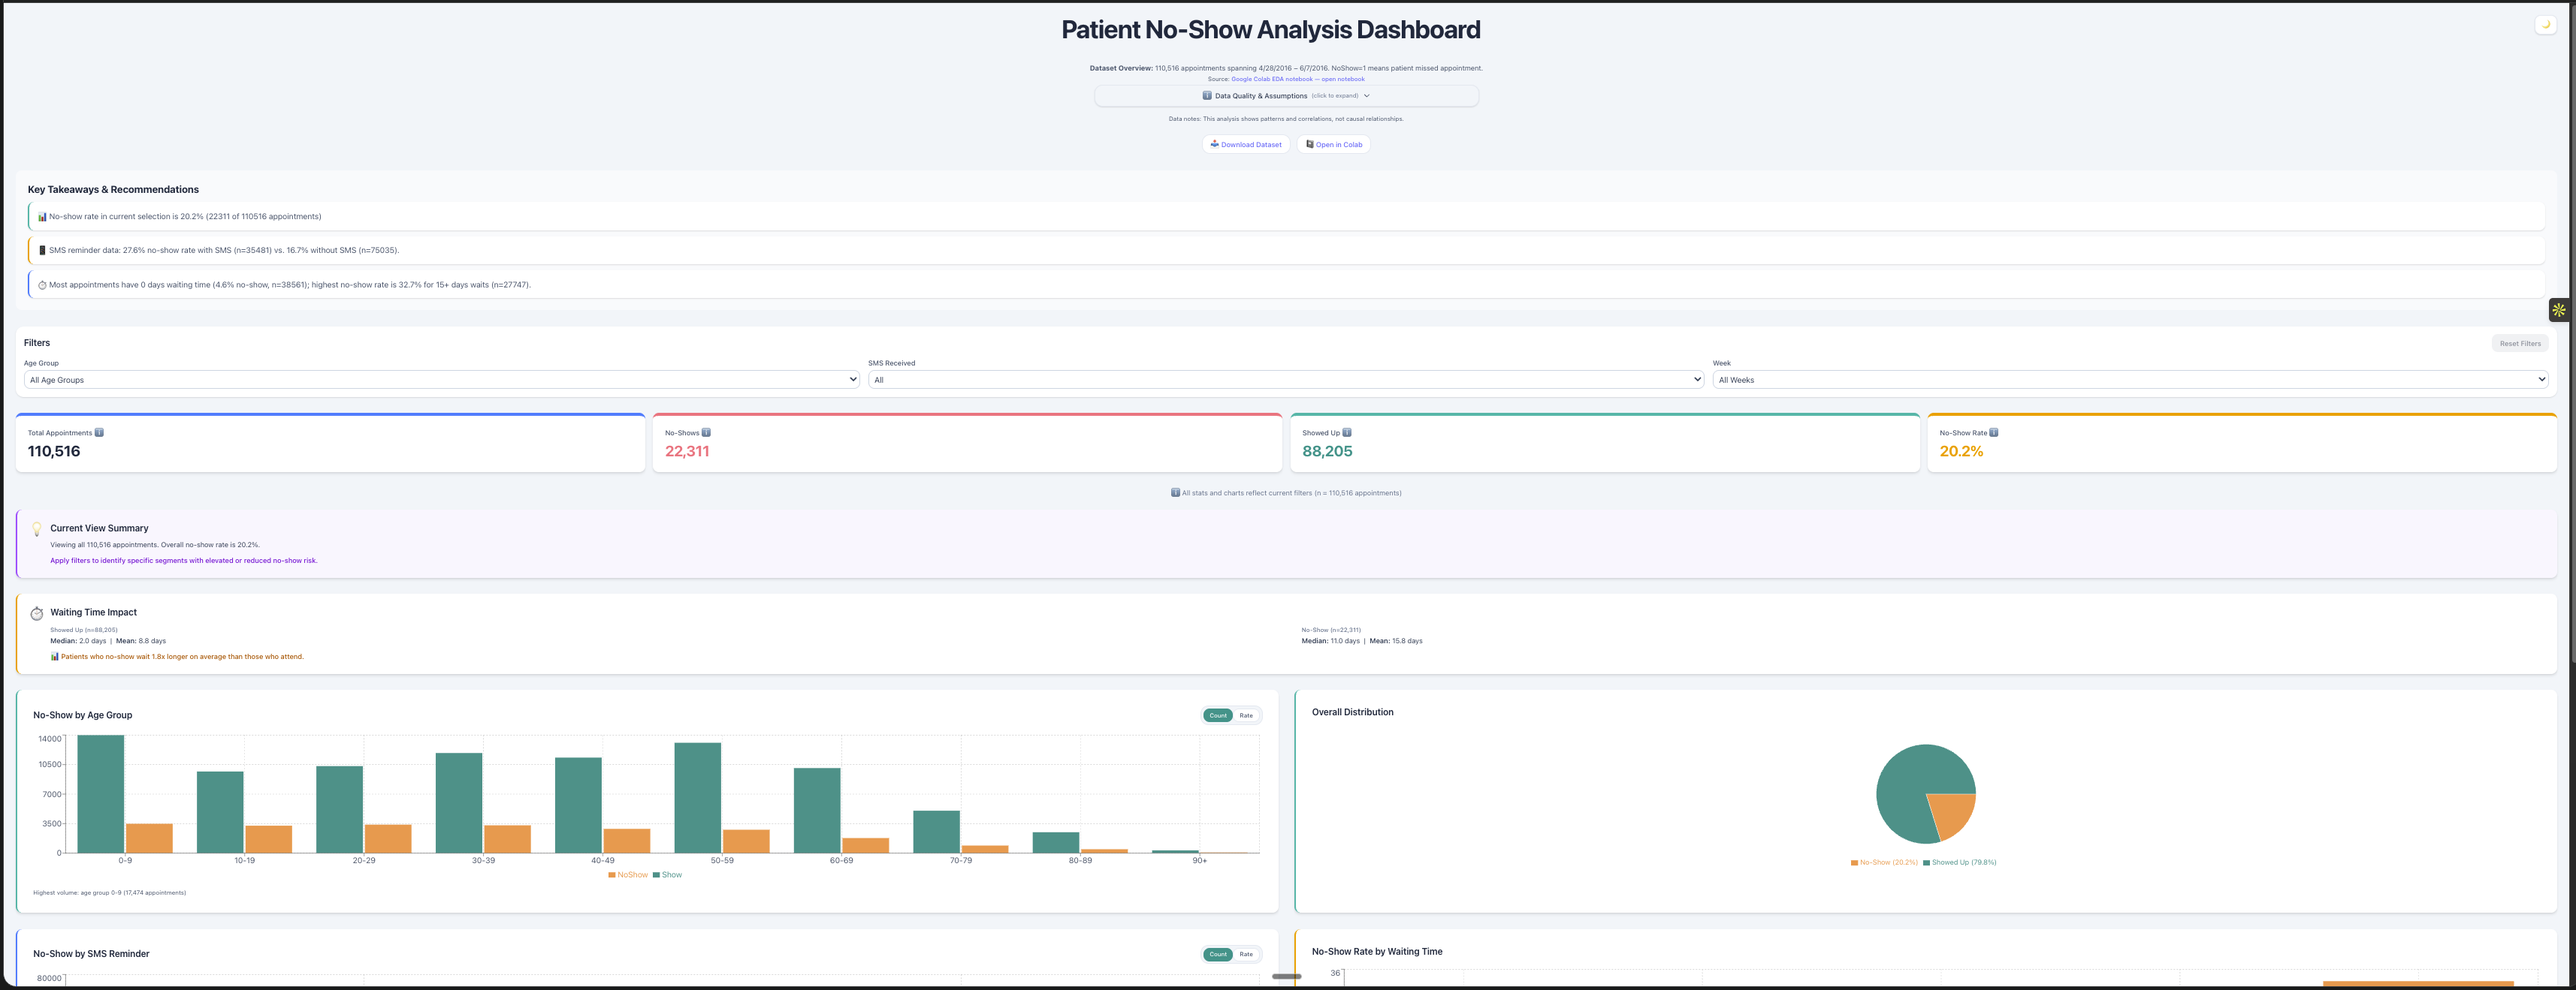
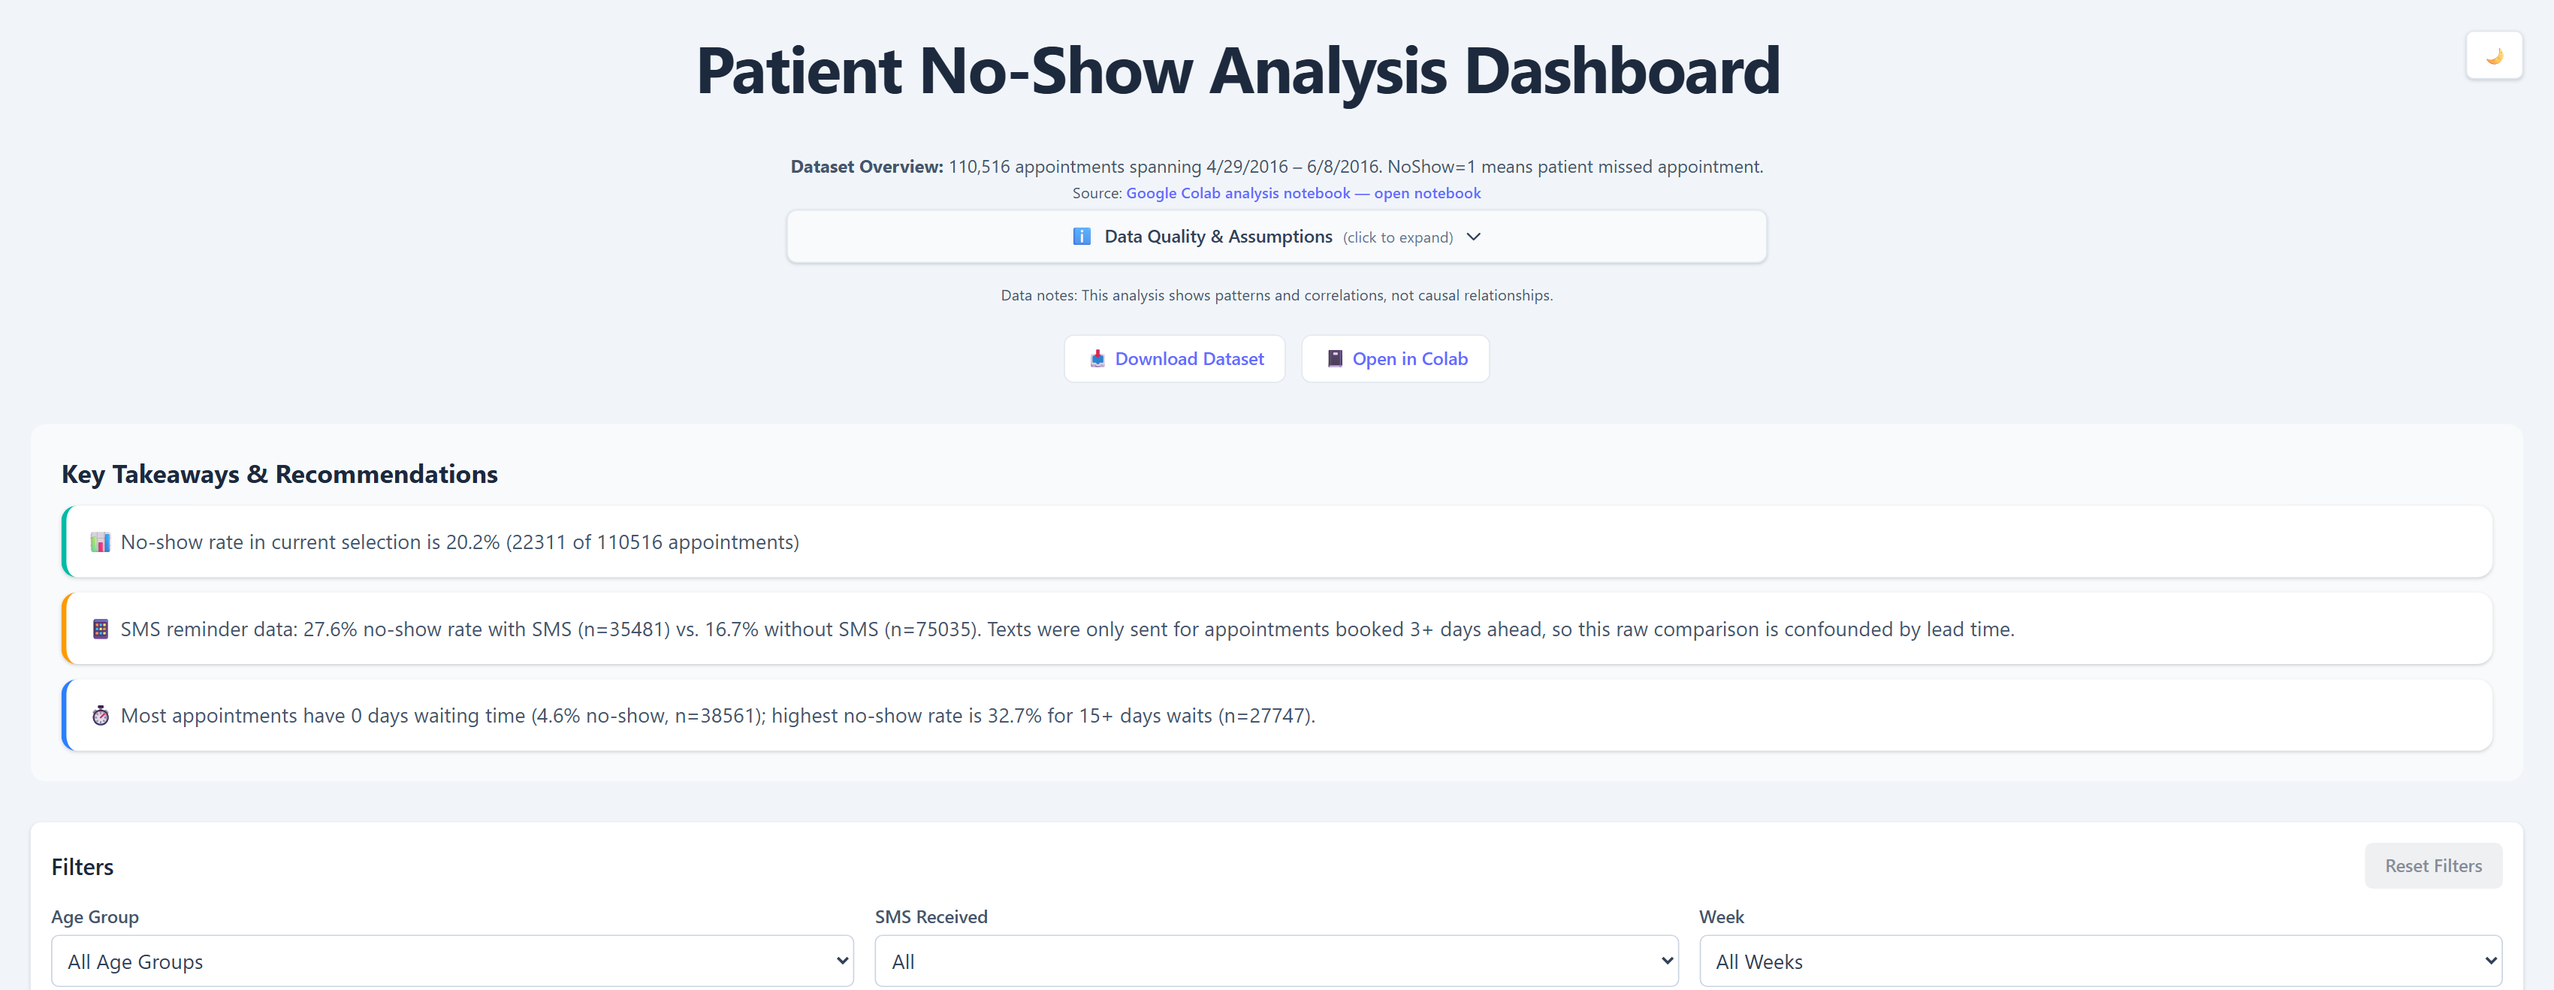
Correct dashboard SMS note, Colab link and date range
- Replace the "Counter-Intuitive Finding" SMS note: texts were only
  sent for appointments booked 3+ days ahead; among those, SMS
  recipients missed less often (27.6% vs 32.7%). Association only.
- Add the 3+ day chi-square (182) to the statistical summary and say
  the test statistics come from the 110,521-row notebook.
- Add a Cleaning note explaining 110,527 -> 110,516 rows (5
  appointments dated before booking, 1 negative age, 5 with Age 115).
- Reword the wait ratio as lead time ("booked 1.8x as far ahead").
- Point "Open in Colab" at the corrected notebook in this repo.
- Format the date range in UTC (it showed 4/28-6/7 instead of
  4/29-6/8/2016 in US time zones).
- Retake the 4 README screenshots whose text changed.

Claude-Session: https://claude.ai/code/session_01B99Ly2a23xmyd3xibfrB1g

diff --git a/patient-dashboard/src/PatientNoShowDashboard.jsx b/patient-dashboard/src/PatientNoShowDashboard.jsx
@@ -5,7 +5,9 @@ import {
   XAxis, YAxis, CartesianGrid, Tooltip, Legend, ResponsiveContainer
 } from 'recharts';
 
-const COLAB_URL = 'https://colab.research.google.com/drive/1zJEDIAIp1cpNJCIxTw7wu5hTN5WrfkP7?usp=sharing';
+// Opens the corrected notebook straight from this repo, so the link always matches main.
+const COLAB_URL =
+  'https://colab.research.google.com/github/ivan-711/Externship-TruBridge/blob/main/docs/notebook/TruBridge_NoShow_Analysis_FINAL.ipynb';
 
 const PatientNoShowDashboard = () => {
   const [csvData, setCsvData] = useState(null);
@@ -303,7 +305,9 @@ const PatientNoShowDashboard = () => {
 
     const minDate = new Date(Math.min(...dates));
     const maxDate = new Date(Math.max(...dates));
-    const dateRange = `${minDate.toLocaleDateString()} – ${maxDate.toLocaleDateString()}`;
+    // Appointment dates are stored as UTC midnight; format in UTC so US time zones don't shift them back a day.
+    const fmt = (d) => d.toLocaleDateString(undefined, { timeZone: 'UTC' });
+    const dateRange = `${fmt(minDate)} – ${fmt(maxDate)}`;
 
     // Calculate date range in days
     const daysDiff = Math.ceil((maxDate - minDate) / (1000 * 60 * 60 * 24));
@@ -496,7 +500,8 @@ const PatientNoShowDashboard = () => {
     } else {
       smsComparison =
         `SMS reminder data: ${smsNoShowRate}% no-show rate with SMS (n=${withSMS.length}) vs. ` +
-        `${noSmsNoShowRate}% without SMS (n=${withoutSMS.length}).`;
+        `${noSmsNoShowRate}% without SMS (n=${withoutSMS.length}). ` +
+        'Texts were only sent for appointments booked 3+ days ahead, so this raw comparison is confounded by lead time.';
     }
 
     const waitingBins = {
@@ -947,7 +952,7 @@ const PatientNoShowDashboard = () => {
                 rel="noreferrer"
                 className={`underline ${isDarkMode ? 'text-slate-300 hover:text-slate-200' : 'text-slate-600 hover:text-slate-800'}`}
               >
-                Google Colab EDA notebook — open notebook
+                Google Colab analysis notebook — open notebook
               </a>
             </span>
           </div>
@@ -1022,6 +1027,17 @@ const PatientNoShowDashboard = () => {
                     </p>
                     <p className={isDarkMode ? 'text-slate-300' : 'text-slate-600'}>
                       NoShow=1 indicates patient did not attend scheduled appointment
+                    </p>
+                  </div>
+
+                  <div className="md:col-span-2">
+                    <p className={`font-semibold mb-1.5 ${isDarkMode ? 'text-slate-200' : 'text-slate-800'}`}>
+                      🧹 Cleaning
+                    </p>
+                    <p className={isDarkMode ? 'text-slate-300' : 'text-slate-600'}>
+                      Waiting days = calendar days from booking to appointment (same-day = 0). Of 110,527 raw records,
+                      removed 5 appointments dated before their booking, 1 negative age and 5 records with Age 115
+                      (110,516 kept). Patient and appointment ID columns were removed before publishing.
                     </p>
                   </div>
                 </div>
@@ -1324,7 +1340,7 @@ const PatientNoShowDashboard = () => {
                 </div>
 
                 <p className={`text-sm font-medium ${isDarkMode ? 'text-amber-300' : 'text-amber-700'}`}>
-                  📊 Patients who no-show wait {waitingTimeComparison.ratio}x longer on average than those who attend.
+                  📊 Missed appointments had been booked {waitingTimeComparison.ratio}x as far ahead, on average, as kept ones.
                 </p>
               </div>
             </div>
@@ -1543,10 +1559,10 @@ const PatientNoShowDashboard = () => {
 
             <div className={`${isDarkMode ? 'bg-yellow-900/20 border-yellow-500' : 'bg-yellow-50 border-yellow-500'} border-l-4 p-3 mt-3 rounded`}>
               <p className={`font-semibold ${isDarkMode ? 'text-yellow-400' : 'text-yellow-700'}`}>
-                ⚠ Counter-Intuitive Finding
+                ⚠ Read With Lead Time in Mind
               </p>
               <p className={`text-sm mt-1 ${isDarkMode ? 'text-yellow-300' : 'text-yellow-800'}`}>
-                SMS recipients have HIGHER no-show rates (27.6%) than non-recipients (16.7%). This likely indicates SMS reminders are sent to high-risk patients, not that SMS causes no-shows.
+                Overall, SMS recipients missed more often (27.6%) than non-recipients (16.7%). But texts were only sent for appointments booked 3+ days ahead, and same-day appointments are rarely missed. Among appointments booked 3+ days ahead, SMS recipients missed less often (27.6% vs 32.7%). This is an association, not proof that texts reduce no-shows.
               </p>
             </div>
           </div>
@@ -1701,14 +1717,15 @@ const PatientNoShowDashboard = () => {
                 </p>
                 <ul className="text-sm ml-4 mt-1">
                   <li>T-test (Waiting Days by NoShow): p &lt; 0.001 ✓</li>
-                  <li>Chi-square (SMS vs NoShow): χ² = 1768, p &lt; 0.001 ✓</li>
+                  <li>Chi-square (SMS vs NoShow, all appointments): χ² = 1768, p &lt; 0.001 ✓</li>
+                  <li>Chi-square (SMS vs NoShow, booked 3+ days ahead): χ² = 182, p &lt; 0.001 ✓</li>
                 </ul>
               </div>
               <p className={`text-sm italic mt-2 ${isDarkMode ? 'text-slate-400' : 'text-slate-600'}`}>
-                Waiting time is the strongest predictor. SMS correlation is confounded - reminders appear to be sent to higher-risk appointments.
+                Waiting time is the strongest predictor. The overall SMS correlation is confounded: texts were only sent for appointments booked 3+ days ahead, and among those, SMS recipients missed less often (27.6% vs 32.7%).
               </p>
               <p className={`text-xs mt-3 ${isDarkMode ? 'text-slate-400' : 'text-slate-500'}`}>
-                Source: Google Colab EDA notebook —{' '}
+                Test statistics are from the notebook (110,521 appointments; this dashboard's file also leaves out 5 records with Age 115). Source: Google Colab notebook —{' '}
                 <a
                   href={COLAB_URL}
                   target="_blank"

diff --git a/patient-dashboard/README.md b/patient-dashboard/README.md
@@ -11,7 +11,10 @@ React dashboard for exploring patient no-show patterns by:
 - Week-to-week trend
 
 ## Data
-The dashboard uses the cleaned dataset produced in the Colab notebook.
+The dashboard loads `public/publicsafefinalnoshowdataset.csv` (110,516 rows). It is the notebook's
+public-safe export (`docs/notebook/TruBridge_NoShow_Analysis_FINAL.ipynb`, with the patient and
+appointment ID columns removed) minus 5 records with Age 115, plus label columns for the charts.
+Waiting days are calendar days from booking to appointment (same-day = 0).
 
 ## Run locally
 ```bash
